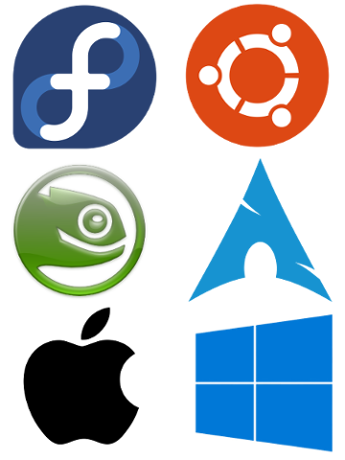
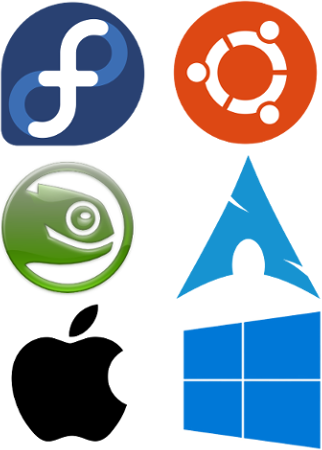
alignment issue fixed

diff --git a/public/assets/css/style.css b/public/assets/css/style.css
@@ -5,6 +5,10 @@
  *
  * Made By MaterializeCSS.com
  */
+
+ .row {
+   margin-bottom: 0px;
+ }
  
  footer {
    padding-top: 8px;
